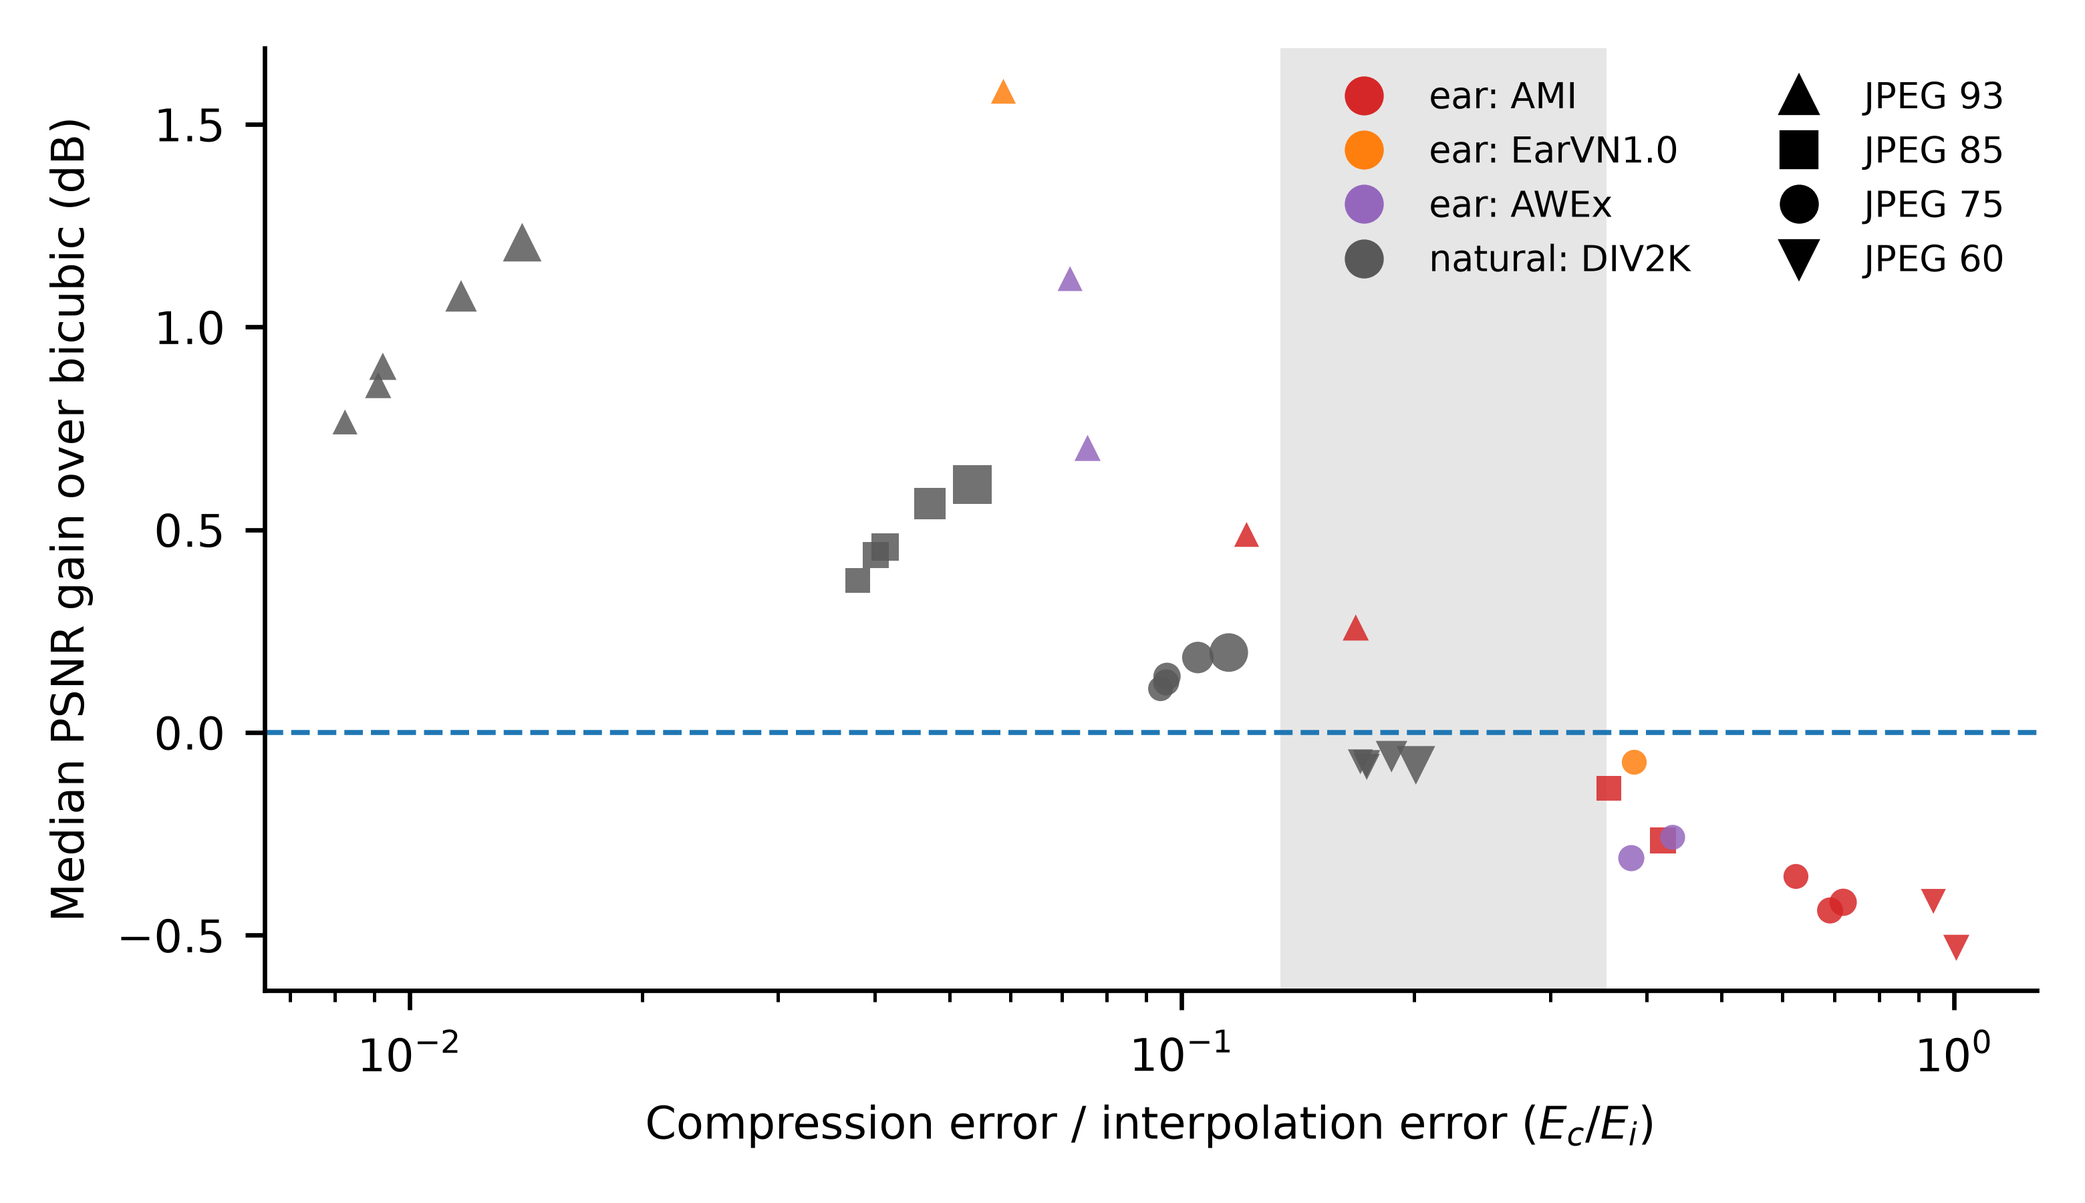
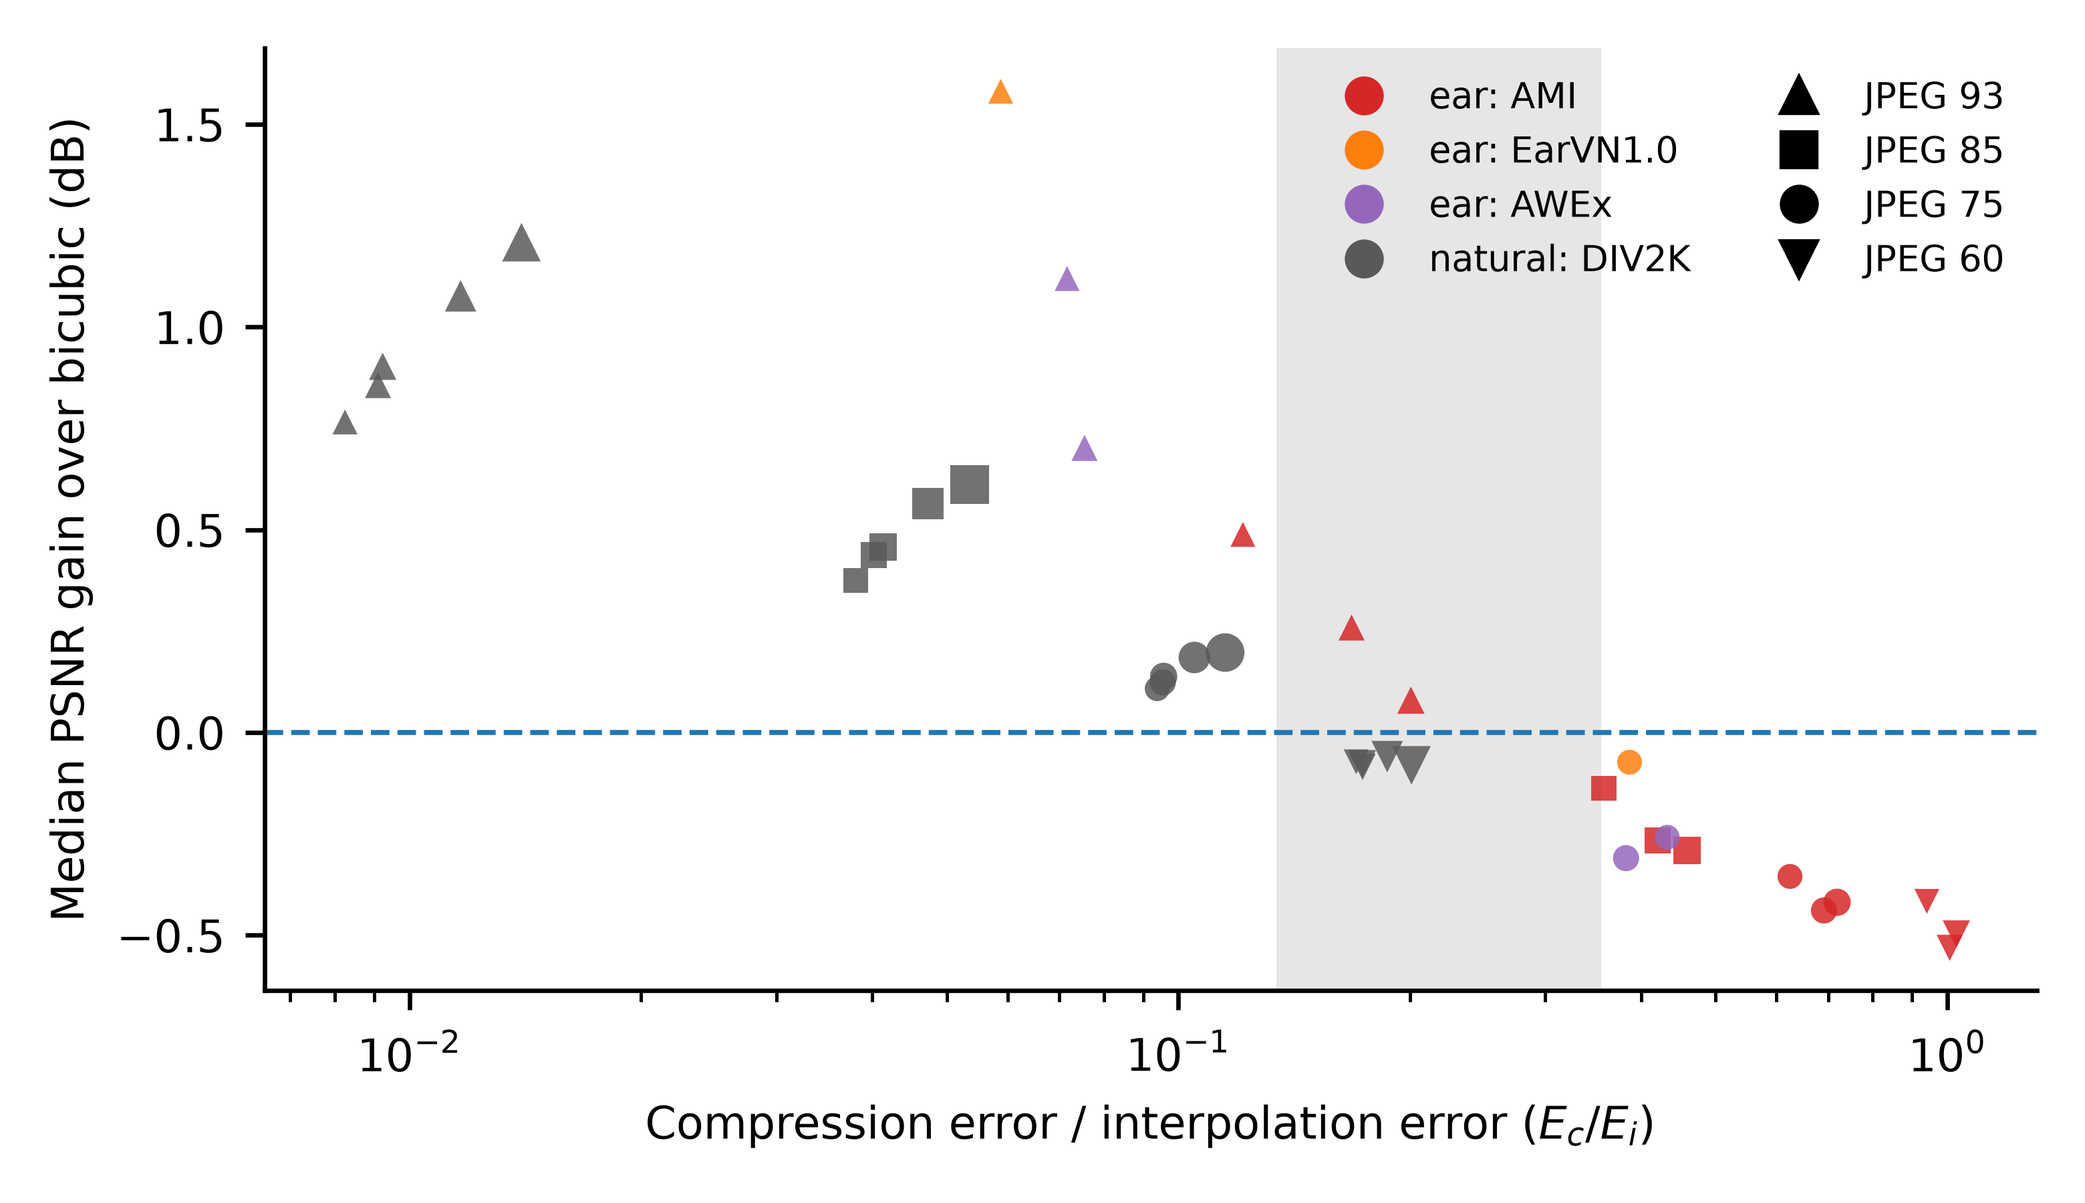
AMI 48 px: crossover shifts with input size on ear images; text in 4.1, 4.2 and introduction updated

diff --git a/paper/sections/intro.tex b/paper/sections/intro.tex
@@ -5,13 +5,13 @@ The ear can be photographed at a distance and without the cooperation of the sub
 
 SR models trained with bicubic downsampling are known to lose accuracy on compressed inputs~\cite{lugmayr2019unsupervised,chen2018cisrdcnn}, and training with compression is an established remedy~\cite{zhang2021bsrgan,wang2021realesrgan}. These works do not report at which compression level the loss occurs for efficient models, what determines that level, or whether it matters for real ear images. We measure all three with \NPub{} published efficient SR models, three ear datasets and a control on natural images.
 
-The main finding concerns the error that compression adds. In all \RatioCells{} settings we tested, every model reduces the interpolation error but adds an excess on top of the compression error of interpolation. This excess grows with compression for each of the \NPub{} models in every dataset and input size, whereas the interpolation error a model saves is measured on the clean input and does not change with compression. The excess lies mainly around the Nyquist frequency of the input, where the models add detail, and only partly at JPEG block boundaries; offsetting the block grid or compressing twice does not change the picture. The ratio of compression error to interpolation error orders the settings more consistently than the JPEG quality, but the threshold differs between image types and depends little on input size. Ear images are smooth, so their interpolation error is small and the same JPEG quality gives a much larger error ratio (\RatioAmiQLow{} on AMI against \RatioDivQLow{} on DIV2K at quality 75). Accordingly, the gain changes sign at a much lighter compression: at JPEG quality \CrossQAmiMin{} to \CrossQAmiMax{} on AMI, compared with \CrossQNatMin{} to \CrossQNatMax{} on DIV2K. The two most common quality levels of real small ear images, 75 (\QLowShare{}\%) and 93 (\QHighShare{}\%), lie on either side of this point. At quality 75 all \NPub{} models are \AmiQLowGapMin{} to \AmiQLowGapMax{}~dB below bicubic interpolation, and the differences between architectures shrink to \SpreadQLow{}~dB.
+The main finding concerns the error that compression adds. In all \RatioCells{} settings we tested, every model reduces the interpolation error but adds an excess on top of the compression error of interpolation. This excess grows with compression for each of the \NPub{} models in every dataset and input size, whereas the interpolation error a model saves is measured on the clean input and does not change with compression. The excess lies mainly around the Nyquist frequency of the input, where the models add detail, and only partly at JPEG block boundaries; offsetting the block grid or compressing twice does not change the picture. The ratio of compression error to interpolation error orders the settings more consistently than the JPEG quality, but the threshold differs between image types and, on ear images, shifts slightly with input size. Ear images are smooth, so their interpolation error is small and the same JPEG quality gives a much larger error ratio (\RatioAmiQLow{} on AMI against \RatioDivQLow{} on DIV2K at quality 75). Accordingly, the gain changes sign at a much lighter compression: at JPEG quality \CrossQAmiMin{} to \CrossQAmiMax{} on AMI, compared with \CrossQNatMin{} to \CrossQNatMax{} on DIV2K. The two most common quality levels of real small ear images, 75 (\QLowShare{}\%) and 93 (\QHighShare{}\%), lie on either side of this point. At quality 75 all \NPub{} models are \AmiQLowGapMin{} to \AmiQLowGapMax{}~dB below bicubic interpolation, and the differences between architectures shrink to \SpreadQLow{}~dB.
 
 Two consequences follow. First, the effect is visible on real small images without ground truth. Using the JPEG quality stored in each file and identity labels, we find that on EarVN1.0 the published SPAN weights improve identification only for lightly compressed probes (\RecQHighPub{} points at quality 90 or above, \RecQLowPub{} at 70 to 80), whereas a model trained with compression raises the overall rank-1 rate from \RecRankBic{}\% to \RecRankEst{}\%; when each method has a recogniser trained on its own upscaled images, this gain shrinks from \RecUpEarvnLgGain{} to \RecUpEarvnGain{} points but remains. On AWEx no gain of this size is seen; this dataset differs from EarVN1.0 in two respects that our data cannot separate. Second, under compression the architecture hardly changes fidelity, whereas the training degradation does: fine-tuning one real-time backbone with JPEG compression over the measured range of quality levels changes its PSNR by \DegEffMin{} to \DegEffMax{}~dB, and a network with \ParamsRatio{} times more parameters, fine-tuned in the same way, adds only \RevRrdbVsEstQMin{} to \RevRrdbVsEstQMax{}~dB. Identification ranks the methods differently from PSNR (Section~\ref{sec:recog}).
 
 \paragraph{Contributions}
 \begin{enumerate}
-\item An error decomposition, measured for \NPub{} published efficient SR models: every model adds an excess to the compression error, the excess grows with compression whereas the interpolation error saved does not, it lies mainly around the Nyquist frequency of the input and only partly at JPEG block boundaries, and the compression level at which the gain changes sign is set by image content rather than input size.
+\item An error decomposition, measured for \NPub{} published efficient SR models: every model adds an excess to the compression error, the excess grows with compression whereas the interpolation error saved does not, it lies mainly around the Nyquist frequency of the input and only partly at JPEG block boundaries, and the compression level at which the gain changes sign depends mainly on image content and less on input size.
 \item A benchmark of small ear images with near-clean ground truth on AMI at three input sizes, two in-the-wild datasets that serve as further checks with less clean ground truth, and a natural-image control, with checks of the order of degradations (offset block grid, double compression).
 \item Evidence that, under a smartphone CPU budget, covering the JPEG range of the target images during fine-tuning is sufficient and a larger architecture adds little. The adapted SPAN improves on bicubic interpolation by \EstVsBicMin{} to \EstVsBicMax{}~dB and on the published weights by \EstVsPubMin{} to \EstVsPubMax{}~dB on three datasets and runs in \LatPhoneSpanCpu{}~ms; RRDB, with \ParamsRatio{} times the parameters and the same training, adds \RevRrdbVsEstQMin{} to \RevRrdbVsEstQMax{}~dB.
 \end{enumerate}

diff --git a/paper/sections/analysis.tex b/paper/sections/analysis.tex
@@ -27,12 +27,12 @@ Model & (K) & (ms) & Clean & JPEG 93 & JPEG 75 & Clean & JPEG 75 \\
 \label{fig:sweep}
 \end{figure}
 
-The pattern holds across input sizes and datasets (Table~\ref{tab:generality} in \ref{app:generality}). At quality 75 all models are significantly below interpolation at the three AMI sizes and on AWEx; on EarVN1.0 \EarvnQLowBelow{} of the \NPub{} have a negative mean gain (\EarvnQLowSig{} significantly). At quality 93 no model is below interpolation. Under the measured degradation, which mixes the two levels, the published models are within \WildEstGainMin{} to \WildEstGainMax{}~dB of interpolation on the in-the-wild sets, against \WildCleanGainMin{} to \WildCleanGainMax{}~dB on clean inputs. The deficit does not grow as inputs become smaller (SPAN: \SpanQLowGapS{}, \SpanQLowGapM{} and \SpanQLowGapL{}~dB at 24, 36 and 48 pixels). Nor does it depend on the order of degradations (Table~\ref{tab:order} in \ref{app:order}). With the block grid offset from the image by 1 to 7 pixels, as when an ear is cropped from a compressed photograph, all \NPub{} models remain below interpolation at quality 75 (by \OrdShiftGapMin{} to \OrdShiftGapMax{}~dB; at most \OrdShiftDeltaMax{}~dB from the aligned case), and likewise after double compression (quality 93 with an offset grid, then 75; \OrdDblGapMin{} to \OrdDblGapMax{}~dB). Without chroma subsampling the gains change by at most \OrdChromaMax{}~dB. Compressing the large image before downsizing, in contrast, leaves little compression in the input, and all models are above interpolation (\OrdPreGainMin{} to \OrdPreGainMax{}~dB).
+The pattern holds across input sizes and datasets (Table~\ref{tab:generality} in \ref{app:generality}). At quality 75 all models are significantly below interpolation at the three AMI sizes and on AWEx; on EarVN1.0 \EarvnQLowBelow{} of the \NPub{} have a negative mean gain (\EarvnQLowSig{} significantly). At quality 93 no model is significantly below interpolation (\AllQHighBelow{} of the \AllQHighCells{} model and setting combinations has a slightly negative mean gain). Under the measured degradation, which mixes the two levels, the published models are within \WildEstGainMin{} to \WildEstGainMax{}~dB of interpolation on the in-the-wild sets, against \WildCleanGainMin{} to \WildCleanGainMax{}~dB on clean inputs. On AMI the same degradation leaves \AmiEstSig{} of the \NPub{} models significantly below interpolation at each of the three input sizes (median deficit \AmiEstMedMin{} to \AmiEstMedMax{}~dB). The deficit does not grow as inputs become smaller (SPAN: \SpanQLowGapS{}, \SpanQLowGapM{} and \SpanQLowGapL{}~dB at 24, 36 and 48 pixels). Nor does it depend on the order of degradations (Table~\ref{tab:order} in \ref{app:order}). With the block grid offset from the image by 1 to 7 pixels, as when an ear is cropped from a compressed photograph, all \NPub{} models remain below interpolation at quality 75 (by \OrdShiftGapMin{} to \OrdShiftGapMax{}~dB; at most \OrdShiftDeltaMax{}~dB from the aligned case), and likewise after double compression (quality 93 with an offset grid, then 75; \OrdDblGapMin{} to \OrdDblGapMax{}~dB). Without chroma subsampling the gains change by at most \OrdChromaMax{}~dB. Compressing the large image before downsizing, in contrast, leaves little compression in the input, and all models are above interpolation (\OrdPreGainMin{} to \OrdPreGainMax{}~dB).
 
 
 \subsection{What determines the sign change}
 \label{sec:natural}
-Our setting differs from the training protocol of these models in content, input size and compression. To separate these factors we evaluate the same models on the \NatN{} DIV2K validation images~\cite{agustsson2017div2k}, downsized to inputs of 24 to \NatLargePx{} pixels and compressed at the same levels (Table~\ref{tab:generality} in \ref{app:generality}). On natural images all models remain above interpolation at quality 75 and fall below it at quality 60, at every input size. On natural images, input size therefore has little effect on where the gain changes sign; on ear images the levels needed to locate the change were evaluated at two input sizes, 24 and 36 pixels, where it lies at quality \CrossQAmiMin{} to \CrossQAmiMax{} (Table~\ref{tab:crossover}). Content, in contrast, moves the change: the change occurs between quality 75 and 60 for natural images and between 93 and 85 for ears. Under compression the architectures also converge on natural images, from a \NatSpreadCleanS{}~dB spread on clean 36-pixel inputs to \NatSpreadQLowS{}~dB at quality 75.
+Our setting differs from the training protocol of these models in content, input size and compression. To separate these factors we evaluate the same models on the \NatN{} DIV2K validation images~\cite{agustsson2017div2k}, downsized to inputs of 24 to \NatLargePx{} pixels and compressed at the same levels (Table~\ref{tab:generality} in \ref{app:generality}). On natural images all models remain above interpolation at quality 75 and fall below it at quality 60, at every input size. On natural images, input size therefore has little effect on where the gain changes sign. On AMI the change moves to lighter compression as the input grows, from quality \CrossQAmiSmall{} at \CrossQAmiSmallPx{} pixels to \CrossQAmiLarge{} at \CrossQAmiLargePx{} pixels, with intervals that do not overlap, and the error ratio at the change decreases from \CrossAmiSmall{} to \CrossAmiLarge{} (Table~\ref{tab:crossover}). Content moves the change much more: the change occurs between quality 75 and 60 for natural images and between 93 and 85 for ears. Under compression the architectures also converge on natural images, from a \NatSpreadCleanS{}~dB spread on clean 36-pixel inputs to \NatSpreadQLowS{}~dB at quality 75.
 
 \paragraph{Error decomposition} Let $E_i$ be the mean squared error (MSE) of bicubic interpolation on the clean input, $E_c$ the additional MSE of interpolation when the input is compressed, and $E_m$ and $E'_m$ the MSE of a model on the clean and on the compressed input. For each model and each of the \RatioCells{} combinations of dataset, input size and JPEG quality we write
 \begin{equation}

diff --git a/scripts/make_paper.py b/scripts/make_paper.py
@@ -239,6 +239,13 @@ def published(res: Path, out: Path) -> dict:
     put("AwexMQLowSig", below[("AWEx", 144, "bicjpeg75")][1])
     put("AmiQLowSig", min(below[("AMI", t, "bicjpeg75")][1] for t in (96, 144, 192)))
     put("AllQHighBelow", sum(v[0] for k, v in below.items() if k[2] == "bicjpeg93"))   # mọi bộ ảnh tai, mọi cỡ
+    put("AllQHighSig", sum(v[1] for k, v in below.items() if k[2] == "bicjpeg93"))
+    put("AllQHighCells", sum(16 for k in below if k[2] == "bicjpeg93"))
+    ae = [v for k, v in below.items() if k[0] == "AMI" and k[2] == "est"]   # suy giảm đo được trên AMI (05/11; TODO P6)
+    put("AmiEstSig", min(v[1] for v in ae) if ae else None, "ami-est")
+    me = [cell(q, t, "est").gain.median() for t in (96, 144, 192) if len(cell(q, t, "est")) == 16]
+    put("AmiEstMedMin", num(-max(me), 2) if me else None, "ami-est")
+    put("AmiEstMedMax", num(-min(me), 2) if me else None, "ami-est")
     put("WildEstGainMin", num(min(v[2] for k, v in below.items() if k[2] == "est" and k[0] != "AMI"), 2, True))
     put("WildEstGainMax", num(max(v[3] for k, v in below.items() if k[2] == "est" and k[0] != "AMI"), 2, True))
     put("WildCleanGainMin", num(min(v[2] for k, v in below.items() if k[2] == "bic" and k[0] != "AMI")))
@@ -813,6 +820,16 @@ def error_ratio(res: Path, out: Path, fig: Path) -> None:
         if tag != "All":
             put(f"CrossQ{tag}Min", int(round(X[sel].q.min())))
             put(f"CrossQ{tag}Max", int(round(X[sel].q.max())))
+    # AMI theo cỡ ảnh vào: điểm đổi dấu dời về nén nhẹ hơn khi ảnh vào lớn hơn (thêm cỡ 48 px ngày 05/11; TODO P6)
+    A = X[X.set == "AMI"].sort_values("px")
+    if not (np.all(np.diff(A.q) > 0) and np.all(np.diff(A.ratio) < 0)):
+        print("CHÚ Ý: điểm đổi dấu trên AMI không còn dời đều theo cỡ ảnh; sửa câu ở mục 4.2 và phần mở đầu")
+    put("CrossQAmiSmallPx", int(A.px.iloc[0]))
+    put("CrossQAmiLargePx", int(A.px.iloc[-1]))
+    put("CrossQAmiSmall", int(round(A.q.iloc[0])))
+    put("CrossQAmiLarge", int(round(A.q.iloc[-1])))
+    put("CrossAmiSmall", num(A.ratio.iloc[0], 2))
+    put("CrossAmiLarge", num(A.ratio.iloc[-1], 2))
     rows = []
     for r in X.to_dict("records"):
         kind = "Natural" if r["set"] == "DIV2K" else "Ear"

diff --git a/TODO.md b/TODO.md
@@ -247,7 +247,7 @@ dạng; rà tài liệu lượt đầu; chuyển mô hình sang Core ML; viết 
   - [x] 04/11 O5 Chữ (xong; tóm tắt 250 từ, bài 38 trang, 0 macro thiếu, thêm câu UERC ở giới hạn): câu 4:2:0; viết lại mục 3 (lõi là mức JPEG đọc từ file; noise, blur chuyển phụ lục); còn 3 đóng
     góp, nhận dạng và LPIPS thành kết quả có điều kiện, rời khỏi tóm tắt và kết luận; cắt lặp số ở thảo luận và kết luận;
     câu nội suy và bootstrap của điểm đổi dấu (in một số lẻ); câu về một seed; hình đánh đổi tách FP32; tiêu đề.
-- [ ] **P. Kiểm toán bảng biểu (phản biện thứ năm, 04/11; người dùng: "làm").** Đã đối chiếu từng điểm với mã: đúng hết.
+- [x] 05/11 **P. Kiểm toán bảng biểu (phản biện thứ năm, 04/11; người dùng: "làm").** Đã đối chiếu từng điểm với mã: đúng hết.
   - [x] 04/11 P1 Độ trễ RRDB lệch giữa Bảng 1/11 (13,39, `latency_local.csv`) và Bảng 9 (13,21, `latency_review.csv`, lượt đo
     sau). Sửa: mọi mô hình kiến trúc RRDB ở Bảng 9 dùng số của Bảng 1 (như Hình 7); FBCNN ghi rõ lượt đo riêng; điền ô Real-ESRNet. Xong: Bảng 9 in 13,39 cho cả bốn hàng RRDB; chú thích ghi lượt đo riêng của FBCNN.
   - [x] 04/11 P2 Khoảng tin cậy Bảng 8 và H.1 lệch 0,1: seed vẫn cố định, nhưng `summarize_recog.py` lấy 1000 mẫu còn
@@ -257,7 +257,11 @@ dạng; rà tài liệu lượt đầu; chuyển mô hình sang Core ML; viết 
   - [x] 04/11 P4 EER: một câu ở 6.4 (bicubic-trained tăng EER 0,7 đến 1,2 điểm, khoảng tin cậy chứa 0); hàng bicubic ở F.1;
     chú thích Bảng 7 về 10 ảnh dò ngoài hai nhóm (kiểm lại: 3 ảnh mức 65, 7 ảnh mức 81 đến 87, không phải toàn 81 đến 89).
   - [x] 04/11 P5 Đặt tên: Ear-R18, Ear-R50 (bộ nhận dạng tai), ImageNet-R50 (đối chứng đông lạnh), đồng loạt bảng, thân bài và Hình 7.
-  - [ ] P6 [labai217] AMI 48 px chỉ có sạch và JPEG 75; cột Measured của AMI chưa đo cho 16 mô hình công bố. Chạy suy luận
+  - [x] 05/11 P6 [labai217] Đã chạy (156 file: thêm BSRNet, Real-ESRNet, không vào bảng). KẾT QUẢ ĐỔI MỘT KẾT LUẬN:
+    điểm đổi dấu trên AMI dời theo cỡ ảnh, 86,8 / 89,0 / 91,3 ở 24 / 36 / 48 px, khoảng không chồng; tỉ số E_c/E_i lúc đổi
+    0,28 / 0,26 / 0,24. Đã sửa câu "cỡ ảnh ít ảnh hưởng" ở 4.2, phần mở đầu, đóng góp 1 (nội dung là chính, cỡ ảnh ít hơn;
+    DIV2K vẫn phẳng). JPEG 93 ở 48 px: ERRN âm 0,01 dB, không ý nghĩa, câu 4.1 sửa thành "không mô hình nào kém có ý nghĩa".
+    Measured trên AMI: 16/16 kém bicubic có ý nghĩa ở cả ba cỡ (0,09 đến 0,59 dB), thêm một câu ở 4.1. Ghi chú cũ: AMI 48 px chỉ có sạch và JPEG 75; cột Measured của AMI chưa đo cho 16 mô hình công bố. Chạy suy luận
     rồi thêm hàng AMI 48 vào Bảng 2; trong lúc chờ, câu ở 4.2 nói rõ bằng chứng về cỡ ảnh đến từ DIV2K (đã sửa 04/11).
     Lệnh: `bash scripts/run_ami48.sh` (đã thử trên Mac với 2 ảnh). Bảng 2 và A.1 tự thêm số; `WildEstGain*` đã giới hạn
     cho EarVN1.0 và AWEx. Có số rồi: đọc lại câu 4.2 (cỡ 48 có cùng điểm đổi dấu không) và tóm tắt (\CrossQAmi*).
